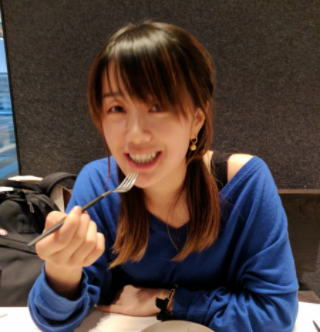
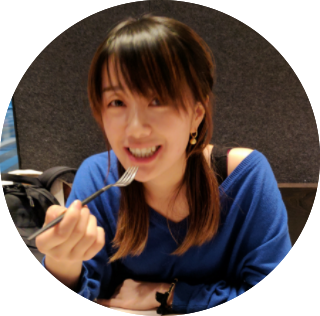
use circled profile image

diff --git a/index.html b/index.html
@@ -63,7 +63,7 @@
     <div class="three columns sidebar">
       <nav>
       <h3 id="logo" style="text-align:center;">
-      <img src="images/lilian_squared_small.png" width="220" class="with_border"/>
+      <img src="images/lilian_squared_small.png" width="220" />
       Lilian Weng
       </h3>
       <ul>
@@ -90,7 +90,7 @@
         
         <div class="doc-section" id="whoami">
             <h3>Who am I?</h3>
-            <p>Hi I'm Lilian Weng (翁荔), a Data Scientist / Machine Learning Engineer @ <a href="https://www.affirm.com/">Affirm</a>, working on the credit underwriting model. I used to be a data scientist @ <a href="https://www.dropbox.com/">Dropbox</a>. Before that I was a <a href="http://cnets.indiana.edu/blog/2014/04/04/congratulations-to-dr-lilian-weng/" target="_blank">Ph.D.</a> student in Complex Networks and Systems, School of Informatics and Computing, Indiana University Bloomington. I'm a member of the Network & Agent Networks (<a href="http://cnets.indiana.edu/groups/nan" target="_blank">NaN</a>) Research Group, Center for Complex Networks and Systems Research (<a href="http://cnets.indiana.edu/" target="_blank">CNetS</a>). My Research interests broadly include: web mining, machine learning, social computing, social network analysis, social application, complex networks/modeling, and human computer interaction. As a PhD student, I'm closely working with Prof. <a href="http://cnets.indiana.edu/people/filippo-menczer" target="_blank">Filippo Menczer</a>, <a href="https://sites.google.com/site/aflammin" target="_blank">Alessandro Flammini</a>, and <a href="http://www.yongyeol.com" target="_blank">Yong-Yeol Ahn</a> on various projects related with information diffusion, social contagion, and modeling. Details on projects can be found in <a href="#projects">Projects</a> section.</p>
+            <p>Hi I'm Lilian Weng (翁荔)! I'm a Staff Data Scientist / Machine Learning Engineer @ <a href="https://www.affirm.com/">Affirm</a>, working on the credit underwriting model. I used to be a data scientist @ <a href="https://www.dropbox.com/">Dropbox</a>. Before that I was a <a href="http://cnets.indiana.edu/blog/2014/04/04/congratulations-to-dr-lilian-weng/" target="_blank">Ph.D.</a> student in Complex Networks and Systems, School of Informatics and Computing, Indiana University Bloomington. I'm a member of the Network & Agent Networks (<a href="http://cnets.indiana.edu/groups/nan" target="_blank">NaN</a>) Research Group, Center for Complex Networks and Systems Research (<a href="http://cnets.indiana.edu/" target="_blank">CNetS</a>). My Research interests broadly include: web mining, machine learning, social computing, social network analysis, social application, complex networks/modeling, and human computer interaction. As a PhD student, I'm closely working with Prof. <a href="http://cnets.indiana.edu/people/filippo-menczer" target="_blank">Filippo Menczer</a>, <a href="https://sites.google.com/site/aflammin" target="_blank">Alessandro Flammini</a>, and <a href="http://www.yongyeol.com" target="_blank">Yong-Yeol Ahn</a> on various projects related with information diffusion, social contagion, and modeling. Details on projects can be found in <a href="#projects">Projects</a> section.</p>
 
             <p>I recently started a technical blog, <strong><a href="https://lilianweng.github.io/lil-log/">check it out</a></strong> if you are interested.</p>
             
@@ -114,7 +114,7 @@
         <div class="doc-section" id="work">
             <h3>Work Experience</h3>
             <ul class="square">
-            <li>2016.2-Now. Data Scientist/Machine Learning Engineer. Data Science, <strong><a href="http://www.affirm.com/" target="_blank">Affirm</a> Inc</strong>.</li>
+            <li>2016.2-Now. Staff Data Scientist/Machine Learning Engineer. Data Science, <strong><a href="http://www.affirm.com/" target="_blank">Affirm</a> Inc</strong>.</li>
             <li>2015.8-2016.2. Product Engineer. Content &amp; Workflows, <strong><a href="http://www.dropbox.com/" target="_blank">Dropbox</a> Inc</strong>.</li>
             <li>2014.4-2015.8. Data Scientist. Data Science, <strong><a href="http://www.dropbox.com/" target="_blank">Dropbox</a> Inc</strong>.</li>
             <li>2013 Summer. Data Scientist Intern. Data Science, <strong><a href="http://www.facebook.com/" target="_blank">Facebook</a> Inc</strong>.</li>
